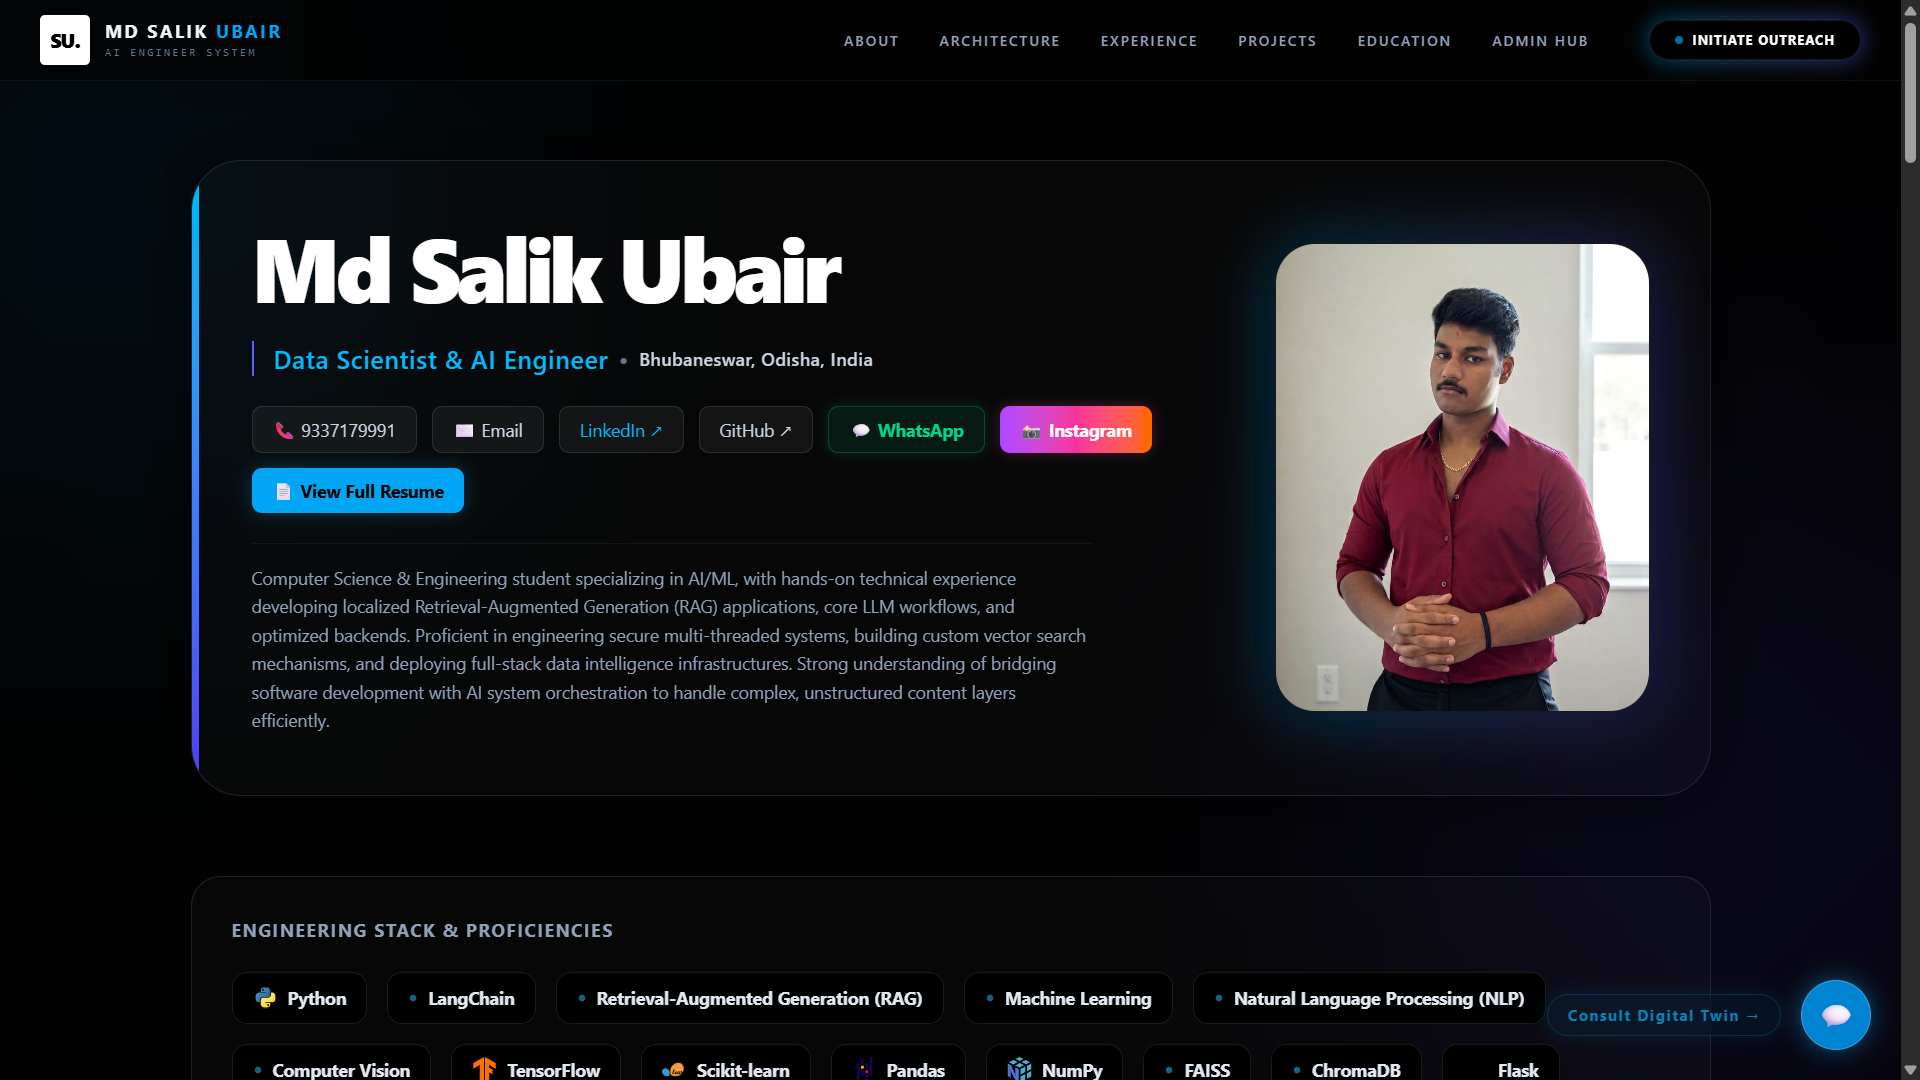
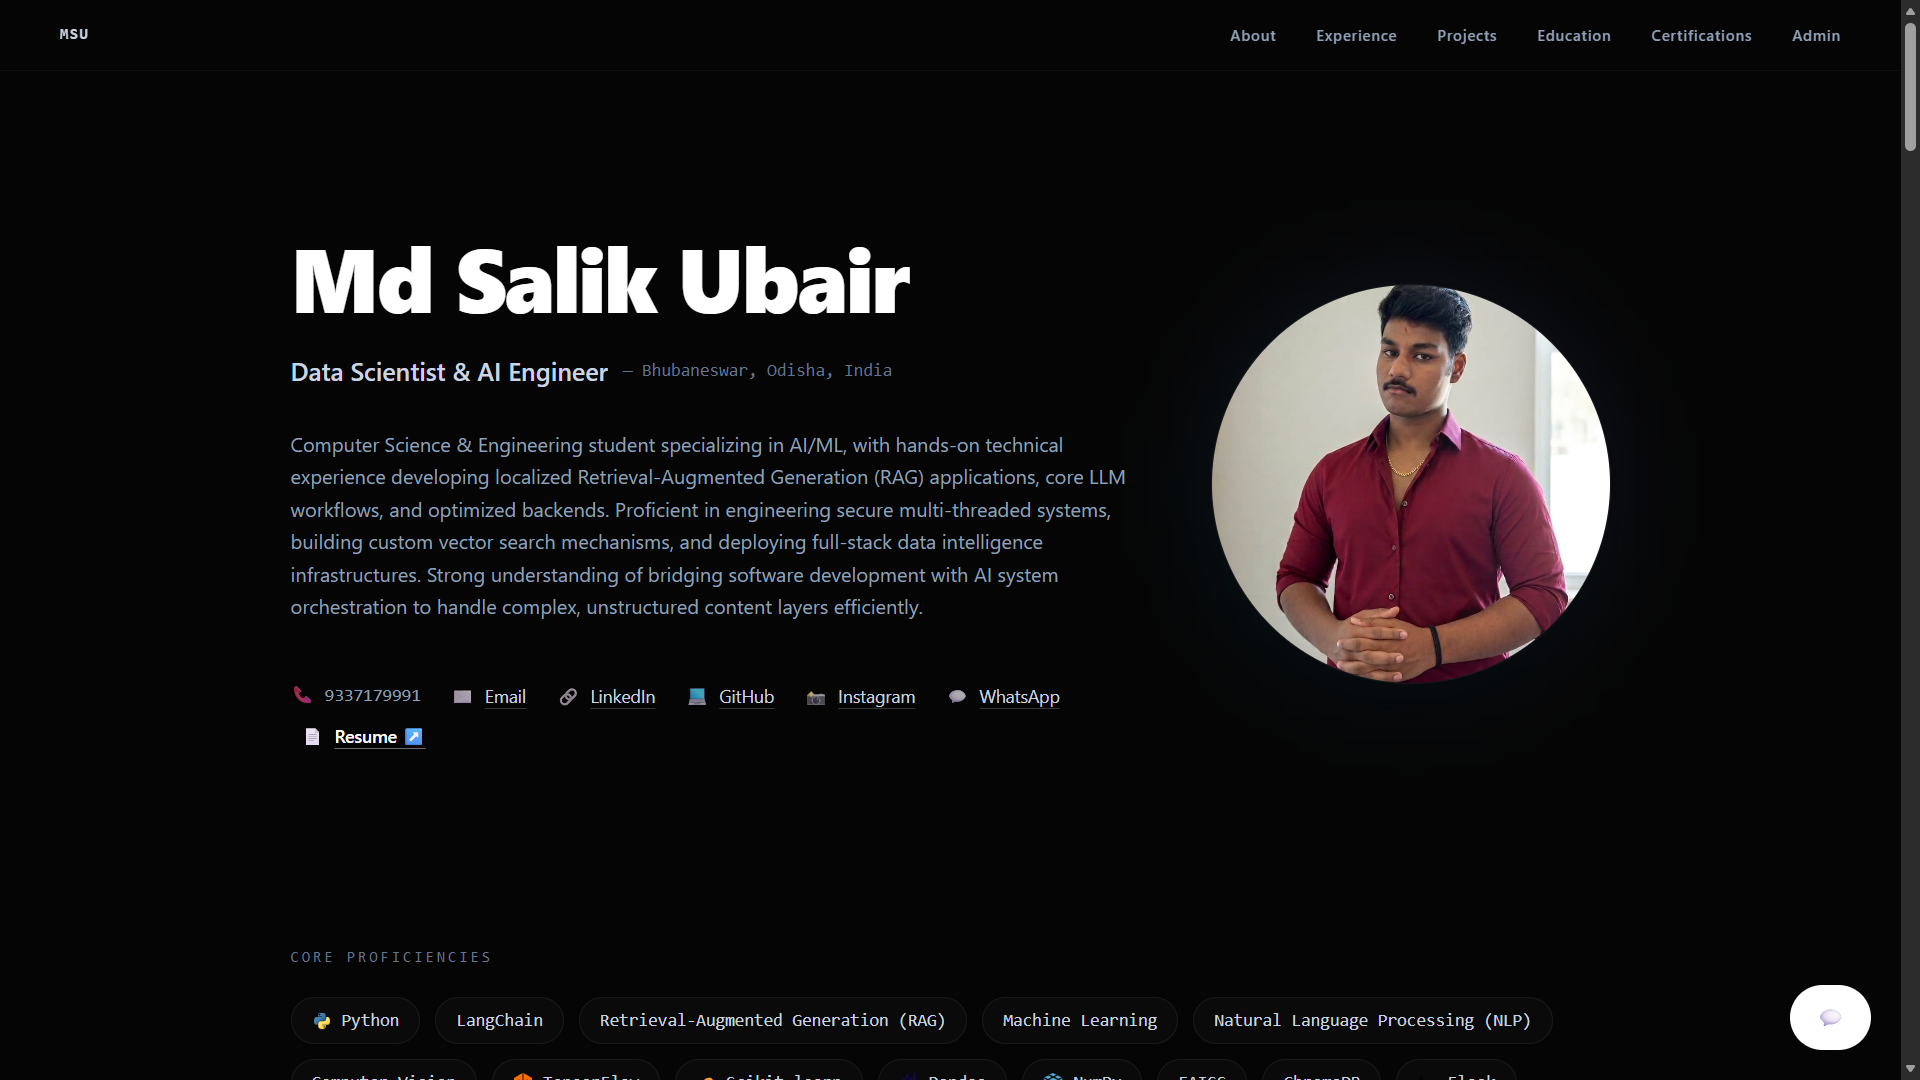
docs: finalize assets synchronization and polish production README

diff --git a/README.md b/README.md
@@ -6,7 +6,7 @@
 
 <p align="center">
   <b>Architected by Md Salik Ubair</b><br/>
-  A next-generation, ultra-scalable web portfolio featuring a <b>localized Retrieval-Augmented Generation (RAG) Digital Twin</b>, an <b>AI Outreach Synthesizer</b>, and a <b>Dynamic Admin Control Hub</b>. Engineered to decouple heavy asynchronous AI orchestration from the client interface, providing seamless, real-time interactive intelligence backed by an editable database matrix.
+  A production-grade founder portfolio featuring an <b>interactive AI Digital Twin powered by localized Retrieval-Augmented Generation (RAG)</b>, audio-visual synchronization, and a <b>Dynamic Admin Matrix</b>. Engineered to decouple heavy asynchronous AI inference and vector indexing from the frontend client, delivering an ultra-minimalist executive UX.
 </p>
 
 <div align="center">
@@ -32,79 +32,66 @@
 *   **Synchronized Audio-Visuals:** Integrates `Edge-TTS` for real-time audio streaming. Features a hardware-accelerated video state controller mapping an avatar between idle, thinking, and speaking modes.
 *   **Zero-Hallucination Guardrails:** Hardcoded ground-truth metrics (dynamic age, verified project counts) injected directly into the LLM context at runtime.
 
-### 2. AI Outreach Synthesizer (One-Shot Copywriting)
-<div align="center">
-  <img src="ReadmeAssets/04_synthesizer_1.png" alt="Synthesizer Input State" width="49%" />
-  <img src="ReadmeAssets/04_synthesizer_2.png" alt="Synthesizer Generated State" width="49%" />
-</div>
-
-*   **Contextual Overrides:** A specialized modal that bypasses standard RAG protocols via Prompt Injection, transforming the core engine into an expert corporate copywriter.
-*   **Privacy-First Generation:** Drafts highly professional, tailored outreach emails (e.g., job interviews, freelance collaborations) instantly based on pure intent without logging user data.
-*   **Direct Routing:** Seamlessly routes generated intent to native applications (Direct Gmail Web Compose, LinkedIn, WhatsApp, Instagram).
-
-### 3. Dynamic Admin Control Hub & Matrix Synchronization
+### 2. Dynamic Admin Control Hub & Matrix Synchronization
 <div align="center">
   <img src="ReadmeAssets/05_admin_hub.png" alt="Admin Hub Control" width="90%" />
 </div>
 
-*   **Zero-Downtime Reconstructions:** Secure `MongoDB` integration enabling native CRUD manipulation. Saving data instantly triggers background threading to re-index the RAG Vector DB.
-*   **O(1) Node Reordering:** Smooth, optimistic UI node sequencing (`↑` / `↓` indices) dynamically synced to the MongoDB pipeline.
-*   **Master Resume Pipeline:** Direct ingestion of raw master CV text to instantly update the AI's internal memory matrix.
+*   **Zero-Downtime Re-Indexing:** Secure `MongoDB` integration enabling native CRUD operations. Updating records automatically triggers background threading to re-embed and synchronize ChromaDB.
+*   **O(1) Node Reordering:** Smooth, optimistic UI sequencing (`↑` / `↓` indices) dynamically synced to the persistent MongoDB schema.
+*   **Master Corpus Pipeline:** Ingests raw master CV text directly into vector chunks for real-time memory expansion.
 
-### 4. Adaptive Cinematic UI & Boot Sequence
+### 3. Executive Founder UI & Minimalist Architecture
 <div align="center">
-  <img src="ReadmeAssets/02_bootloader.png" alt="System Bootloader" width="90%" />
+  <img src="ReadmeAssets/02_loader.png" alt="Minimalist System Loader" width="70%" />
 </div>
 <br/>
 <div align="center">
-  <img src="ReadmeAssets/06_mobile.png" alt="Mobile Adaptive Snap View" width="35%" />
+  <img src="ReadmeAssets/06_mobile.png" alt="Responsive Mobile Split View" width="35%" />
 </div>
 
-*   **Matrix Bootloader:** Simulated cyber-terminal pre-fetching sequence masking standard server cold-start latencies.
-*   **Responsive Engine:** Fluid grid-layouts on PC that seamlessly adapt into horizontal snap-scrolling cards on mobile devices for flawless UX.
-*   **Custom Cyber Toasts:** Globally deployed sleek, matrix-styled toast notifications replacing standard browser alerts.
-
-### 5. Interactive System Architecture Whitepaper
-<div align="center">
-  <img src="ReadmeAssets/07_architecture.png" alt="System Architecture Whitepaper" width="90%" />
-</div>
-
-*   **Developer-First Transparency:** A dedicated interactive modal detailing the core engineering pipeline to technical recruiters and AI founders.
-*   **Pipeline Breakdown:** Deep-dive explanations covering Vectorization (Gemini 768-D), Semantic Retrieval (ChromaDB), and Inference Generation.
-*   **Production Resilience:** Showcases edge-case handling like Automated LLM Fallback Routing (Zero Downtime) and Self-Healing Database reconstruction.
+*   **Minimalist Brand Loading:** Monochromatic typography loader masking cold-start backend wake-up cycles.
+*   **Ghost Card Layouts:** Transparent card containers with ultra-subtle micro-borders to maintain structural visual hierarchy without boxed UI clutter.
+*   **Fixed Mobile Viewport Split:** Precision-engineered 40/60 mobile modal layout keeping the avatar's portrait framing locked while allowing seamless chat log scrolling.
 ---
 
 ## ⚙ System Architecture Data Flow
 
+## ⚙ System Architecture Data Flow
+
 ```text
-[ Visitor / Recruiter ]
+[ Visitor / Technical Recruiter ]
         │
-        ├───► [ React 18 + Tailwind Frontend UI ]
-        │            │
-        │            ├───► [ Initiate Outreach ] ───► [ LLM Synthesizer Override ] ───► [ Native Routing ]
-        │            │
-        │            └───► [ Digital Twin Query ]
-        │                         │
-        └─────────────────────────┼─────────────────────────────────────────────┐
-                                  ▼                                             │
-                     [ Flask REST Backend API ]                                 │
-                                  │                                             │
-            ┌─────────────────────┴─────────────────────┐                       │
-            ▼                                           ▼                       │
-  [ MongoDB Cloud State ]                   [ LangChain RAG Engine ]            │
- (Master Schema / Nodes)                                │                       │
-            │                                           ├───► Google Gemini Embeddings (768-D)
-            │                                           ├───► ChromaDB Vector Store
-            └──────► [ Background Vector Sync ] ────────┼───► Truth Metric Injection
-                                                        │
-                                                        ▼
-                                             [ Groq Llama-3.3-70B ]
-                                                        │
-                                                        ▼
-                                             [ Edge-TTS Audio Sync ]
-                                                        │
-                                                        ▼
-                                          [ Streamed Response to Frontend ]
+        ▼
+[ React 18 + Tailwind Frontend Interface ]
+        │
+        ├───► [ Direct Inquiries ] ───► [ Official Channels: LinkedIn / Email ]
+        │
+        └───► [ AI Assistant Interactive Query ]
+                    │
+                    ▼
+        [ Flask REST Backend Gateway ]
+                    │
+       ┌────────────┴───────────────────────────┐
+       ▼                                        ▼
+[ MongoDB Atlas Cloud ]               [ LangChain RAG Engine ]
+ (Master Nodes Schema)                          │
+       │                                        ├───► Gemini Text-Embedding-004 (768-D)
+       │                                        ├───► ChromaDB Vector Similarity Search
+       └────► [ Background Re-Index Worker ] ───┼───► Dynamic Ground-Truth Facts Injection
+                                                │
+                                                ▼
+                                    [ Groq Multi-Tier Engine ]
+                                  (gpt-oss-120b ➔ 20b Fallback)
+                                                │
+                                                ▼
+                                    [ Edge-TTS Audio Engine ]
+                                                │
+                                                ▼
+                                    [ Audio Blob + Text Payload ]
+                                                │
+                                                ▼
+                                 [ Hardware-Accelerated Avatar Sync ]
 ```
 # 🛠 Core Technology Stack
 
